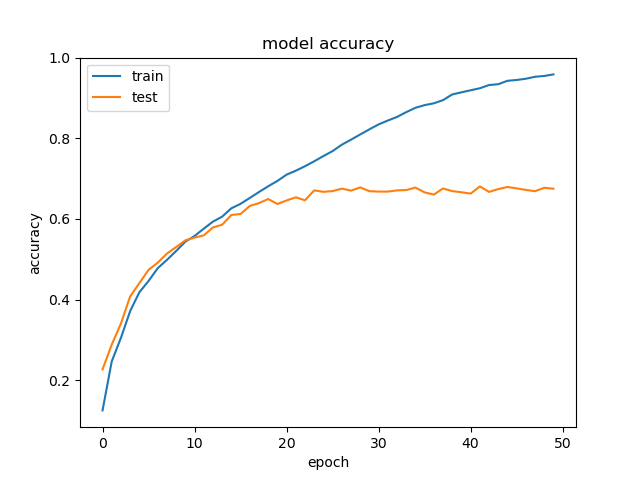
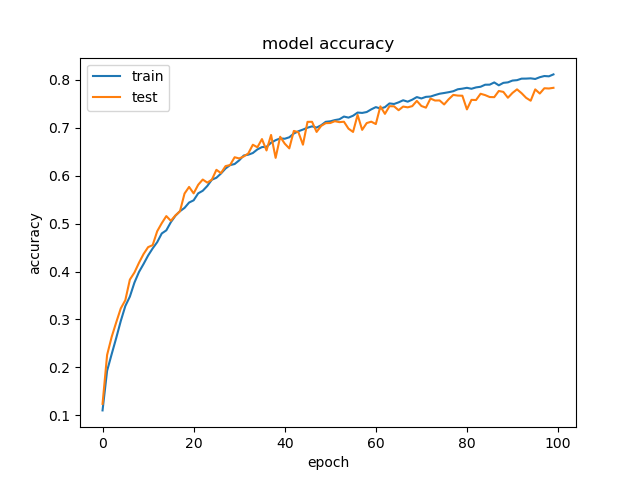
New AllConv model

diff --git a/tests/CIFAR10/tests_CIFAR10.py b/tests/CIFAR10/tests_CIFAR10.py
@@ -19,7 +19,7 @@ population_size = 200
 multiprocessing = True
 
 save_dir = os.path.join(os.path.dirname(os.getcwd()), 'saved_models')
-model_name = 'VGG16_one_pixel_cifar10_trained_model.h5'
+model_name = 'AllConv_cifar10_trained_model.h5'
 
 model = tf.keras.models.load_model(save_dir + '\\' + model_name)
 
@@ -29,46 +29,47 @@ y_test = keras.utils.to_categorical(y_test, num_classes)
 
 # get random images with true predictions, equal number per class
 # Use this block first and than copy the result into all_image_indices below, comment again before the run
-# image_indices = ImagePickerCIFAR10.get_cifar10_images(model, sample_size, num_classes)
-# print(image_indices)
-# exit()
+# otherwise each process would pick new images
+#image_indices = ImagePickerCIFAR10.get_cifar10_images(model, sample_size, num_classes)
+#print(image_indices)
+#exit()
 
-all_image_indices = np.array([6422, 6333, 6744, 2492, 3152, 38, 5627, 5465, 7338, 8926, 3046, 6323, 8970, 4265
-, 4419, 580, 7364, 3891, 3784, 2295, 5225, 6224, 3286, 4932, 5284, 389, 9691, 6415
-, 1993, 7889, 7818, 6659, 3368, 9915, 2497, 9575, 9318, 9004, 9273, 8179, 8657, 1630
-, 6563, 3113, 7488, 8697, 5495, 2602, 5040, 4015, 9063, 1060, 8083, 8703, 1613, 901
-, 2698, 1419, 4826, 1816, 5277, 5133, 6270, 4619, 829, 9343, 3186, 8890, 4226, 6661
-, 4690, 3140, 7749, 1778, 6751, 817, 1573, 5551, 4136, 5400, 5502, 809, 3121, 2866
-, 2740, 8068, 2960, 3381, 4923, 2488, 3332, 6152, 6874, 7465, 1081, 1450, 2430, 8502
-, 5996, 1093, 9494, 5970, 511, 6557, 5518, 2878, 6343, 8708, 5507, 6249, 4846, 8089
-, 1354, 5309, 9444, 4465, 5890, 2336, 9685, 8881, 4505, 314, 9698, 4007, 7997, 3599
-, 2669, 4187, 4330, 5676, 4231, 1929, 7577, 7521, 6617, 5828, 6093, 9673, 7325, 6250
-, 1452, 7322, 1205, 3357, 6762, 8738, 7653, 4087, 9523, 8634, 6824, 5566, 636, 4009
-, 8493, 3461, 2553, 9766, 9149, 9281, 8696, 4806, 9019, 2191, 288, 9841, 233, 3612
-, 9544, 7393, 4713, 9950, 7563, 3198, 9295, 9763, 2605, 9158, 6438, 7247, 1061, 2214
-, 3849, 4069, 706, 1443, 6889, 2053, 2925, 8919, 5962, 4078, 7121, 9294, 9202, 7222
-, 6586, 6329, 4382, 2625, 7798, 2809, 820, 1379, 3271, 5165, 4401, 9797, 9736, 1694
-, 3127, 8866, 9006, 7967, 4730, 1564, 884, 8510, 4025, 4770, 6548, 4070, 6167, 8082
-, 2354, 588, 1606, 2689, 7519, 4091, 5909, 5925, 2076, 4170, 7699, 9927, 8343, 5653
-, 8235, 6943, 9885, 8278, 4471, 7660, 3697, 5000, 6978, 2005, 4628, 9819, 1784, 5757
-, 6225, 5303, 3756, 4075, 2812, 7469, 7757, 9697, 7587, 6000, 7270, 3676, 5966, 53
-, 5980, 7390, 499, 6399, 934, 8791, 8247, 2043, 1851, 5744, 7151, 8740, 6526, 2051
-, 7683, 5930, 1792, 5146, 3064, 2068, 2271, 9477, 2246, 7346, 7506, 9621, 1070, 7721
-, 4567, 4318, 109, 7437, 8612, 7624, 2062, 3092, 9366, 2670, 9790, 5258, 7083, 8998
-, 2090, 475, 1331, 8683, 8898, 1920, 9598, 4783, 1110, 2272, 772, 4714, 7823, 5834
-, 6081, 6300, 2853, 9059, 7422, 9194, 736, 3244, 1524, 1410, 8111, 1659, 5015, 5336
-, 5710, 3780, 2520, 8454, 8001, 5353, 3147, 4600, 8702, 4699, 3968, 7532, 430, 5124
-, 8313, 633, 869, 3293, 6366, 6463, 2856, 1048, 3964, 3698, 7066, 6495, 2758, 5704
-, 2445, 9703, 7879, 5304, 4839, 711, 6800, 3282, 4099, 6319, 1518, 4723, 5919, 9060
-, 2094, 7326, 112, 4557, 9944, 9479, 4772, 8307, 927, 2225, 7459, 8072, 2752, 2112
-, 3456, 7954, 2938, 5972, 141, 5535, 6002, 7927, 3614, 563, 2659, 3382, 6442, 6389
-, 1688, 3048, 5354, 9664, 1106, 9938, 1345, 8473, 1857, 8021, 417, 246, 1002, 5584
-, 3108, 8053, 6413, 245, 7542, 8074, 2077, 9592, 7167, 6815, 8389, 6348, 8873, 6131
-, 343, 9345, 1169, 3927, 9237, 3356, 3515, 7296, 9142, 2212, 5633, 5491, 7794, 7027
-, 6746, 8418, 5068, 8102, 716, 9613, 9243, 5357, 113, 5813, 8848, 7829, 903, 3188
-, 1112, 3489, 8860, 5328, 3326, 1726, 1278, 4939, 6304, 2861, 6945, 1611, 661, 2173
-, 2733, 6105, 6444, 4108, 1673, 5076, 5228, 4987, 933, 5779, 5707, 3620, 2618, 5062
-, 5798, 496, 7125, 1579, 2388, 8795, 8909, 7869, 5948, 3177])
+all_image_indices = np.array([6596, 8202, 3647, 3188, 9481, 799, 3483, 4517, 2735, 7023, 561, 2809, 7850, 8921
+, 5018, 1055, 4684, 4049, 9840, 2582, 6846, 9943, 7869, 7256, 7006, 5494, 7093, 2290
+, 7273, 7187, 5980, 3945, 9118, 4026, 9682, 8231, 9514, 8171, 7954, 4999, 3253, 9314
+, 7430, 2184, 5400, 1054, 1688, 4055, 5094, 6794, 4687, 8155, 1892, 6988, 3539, 9588
+, 3441, 9025, 2604, 8585, 8892, 3668, 7404, 5458, 8206, 8902, 5635, 4147, 550, 2935
+, 2786, 9540, 4715, 7608, 1672, 78, 847, 6915, 2778, 2269, 304, 4798, 7130, 9631
+, 6620, 529, 6735, 8230, 2850, 4458, 1921, 1651, 7838, 39, 2426, 3090, 9589, 2235
+, 7968, 6890, 1752, 4862, 5397, 6221, 6780, 9980, 3829, 3189, 4422, 2928, 826, 2377
+, 6496, 6758, 896, 5073, 278, 7895, 2654, 1844, 7775, 2640, 3169, 5769, 7692, 3896
+, 3732, 410, 4928, 8758, 6560, 5207, 4065, 3674, 6288, 7330, 8705, 9136, 6205, 8465
+, 5554, 661, 4952, 4368, 6866, 8435, 4899, 3676, 500, 9285, 3830, 9196, 8910, 6404
+, 5030, 9494, 6483, 9016, 6268, 1874, 6431, 5540, 659, 3008, 3005, 9103, 4330, 6139
+, 8495, 1235, 42, 3802, 3455, 5145, 1146, 1067, 8693, 7963, 7911, 8409, 800, 3392
+, 4150, 8079, 3210, 1132, 4135, 2765, 6847, 2954, 4880, 2389, 8557, 2473, 421, 1017
+, 8339, 2901, 3058, 854, 4581, 4625, 9406, 4217, 5363, 6897, 9284, 523, 537, 3765
+, 9167, 8204, 192, 425, 377, 2348, 7394, 2297, 4051, 4395, 6421, 4640, 2830, 6175
+, 696, 7135, 3580, 5026, 6319, 8455, 6297, 402, 3730, 3182, 8551, 955, 8068, 3522
+, 4674, 5377, 8018, 8553, 4179, 7910, 3538, 1635, 3257, 1255, 6710, 216, 5868, 4221
+, 5824, 9618, 8769, 4629, 4407, 1849, 6972, 5358, 6240, 126, 4120, 1719, 8637, 413
+, 5884, 5690, 8327, 8767, 5096, 7208, 8500, 2820, 7542, 2583, 7687, 1289, 844, 813
+, 7937, 8285, 6702, 7109, 9876, 5675, 9004, 2877, 999, 2086, 1070, 9948, 6677, 7995
+, 6339, 1615, 7115, 7401, 6670, 1362, 6509, 858, 5906, 3530, 1372, 4575, 750, 4797
+, 8626, 6426, 2504, 5550, 9484, 3302, 5001, 9366, 5323, 8232, 1187, 4117, 1498, 2282
+, 2550, 1062, 8882, 6485, 9328, 2161, 9202, 6184, 4858, 4935, 3581, 8863, 1012, 3370
+, 7613, 5885, 2460, 5623, 5373, 98, 9129, 3007, 7844, 9598, 1694, 5805, 9194, 4115
+, 1260, 3160, 9000, 7964, 3109, 3797, 7188, 7529, 466, 967, 6603, 2591, 1610, 1497
+, 6721, 6767, 9358, 7431, 231, 2527, 6549, 4130, 5042, 252, 6292, 8379, 8951, 2378
+, 7965, 9543, 5447, 6183, 885, 2025, 3903, 9534, 6159, 752, 6632, 969, 7319, 1143
+, 7240, 3724, 753, 30, 5423, 1115, 2688, 5750, 1511, 7282, 7081, 4724, 6440, 6307
+, 2541, 3176, 6446, 8883, 2046, 3200, 181, 940, 6343, 67, 5827, 3235, 5850, 3930
+, 6683, 9660, 3448, 9414, 8659, 570, 480, 4068, 4869, 6593, 9985, 3194, 791, 6278
+, 8721, 3066, 6717, 6082, 9856, 7774, 608, 2976, 4845, 959, 2295, 7582, 3532, 2218
+, 7392, 4116, 1512, 8960, 2404, 837, 8556, 1310, 2153, 8441, 6074, 6738, 2173, 4223
+, 8707, 7165, 3526, 3799, 9656, 6202, 8572, 398, 742, 5852, 1274, 8800, 1266, 1993
+, 6340, 2189, 9462, 3602, 1275, 821, 8897, 873, 6675, 9093, 9191, 8219, 5785, 121
+, 2828, 2840, 8382, 5822, 5368, 2625, 3710, 5265, 4601, 8841])
 
 #function only needed for multi processing
 def f(j):
@@ -101,7 +102,7 @@ start_time = time.time()
 if multiprocessing:
     print('Using multiprocessing')
     if __name__ == '__main__':
-        with Pool(processes=4) as p:
+        with Pool(processes=50) as p:
             p.map(f, all_image_indices)
 
 else:

diff --git a/model_definitions/AllConv_cifar10.py b/model_definitions/AllConv_cifar10.py
@@ -1,6 +1,9 @@
 #parts from https://keras.io/examples/cifar10_cnn/
 
 from __future__ import print_function
+
+import time
+
 import keras
 from keras.datasets import cifar10
 from keras.preprocessing.image import ImageDataGenerator
@@ -13,8 +16,8 @@ from library import CustomStopper
 
 batch_size = 256
 num_classes = 10
-epochs = 50
-data_augmentation = False
+epochs = 100
+data_augmentation = True
 num_predictions = 20
 save_dir = os.path.join(os.path.dirname(os.getcwd()), 'tests')
 save_dir = os.path.join(save_dir, 'saved_models')
@@ -37,15 +40,15 @@ def _define_model():
                       , padding='same'
                       , input_shape=x_train.shape[1:]
                       , activation='relu'))
-    _model.add(Conv2D(96, (3, 3), activation='relu'))
-    _model.add(Conv2D(96, (3, 3), strides=(2, 2), activation='relu'))
-    _model.add(Conv2D(192, (3, 3), activation='relu'))
-    _model.add(Conv2D(192, (3, 3), activation='relu'))
+    _model.add(Conv2D(96, (3, 3), activation='relu', padding='same'))
+    _model.add(Conv2D(96, (3, 3), strides=(2, 2), activation='relu', padding='same'))
+    _model.add(Conv2D(192, (3, 3), activation='relu', padding='same'))
+    _model.add(Conv2D(192, (3, 3), activation='relu', padding='same'))
     _model.add(Dropout(0.3))
-    _model.add(Conv2D(192, (3, 3), strides=(2, 2), activation='relu'))
-    _model.add(Conv2D(192, (3, 3), strides=(2, 2), activation='relu'))
-    _model.add(Conv2D(192, (1, 1), activation='relu'))
-    _model.add(Conv2D(10, (1, 1), activation='relu'))
+    _model.add(Conv2D(192, (3, 3), strides=(2, 2), activation='relu', padding='same'))
+    _model.add(Conv2D(192, (3, 3), strides=(2, 2), activation='relu', padding='same'))
+    _model.add(Conv2D(192, (1, 1), activation='relu', padding='same'))
+    _model.add(Conv2D(10, (1, 1), activation='relu', padding='same'))
     _model.add(AveragePooling2D(6, 1, padding='same'))
     _model.add(Flatten())
     _model.add(Dense(num_classes))
@@ -71,6 +74,8 @@ x_test /= 255
 print(model.summary())
 
 #exit() # uncomment if you want to print the model summary only before the start of the training
+
+start_time = time.time()
 
 if not data_augmentation:
     print('Not using data augmentation.')
@@ -103,7 +108,7 @@ else:
         fill_mode='nearest',
         cval=0.,  # value used for fill_mode = "constant"
         horizontal_flip=True,  # randomly flip images
-        vertical_flip=False,  # randomly flip images
+        vertical_flip=True,  # randomly flip images
         # set rescaling factor (applied before any other transformation)
         rescale=None,
         # set function that will be applied on each input
@@ -118,11 +123,13 @@ else:
     datagen.fit(x_train)
 
     # Fit the model on the batches generated by datagen.flow().
-    model.fit_generator(datagen.flow(x_train, y_train,
+    history = model.fit_generator(datagen.flow(x_train, y_train,
                                      batch_size=batch_size),
                         epochs=epochs,
                         validation_data=(x_test, y_test),
                         workers=4)
+
+print(time.time()-start_time)
 
 # Save model and weights
 if not os.path.isdir(save_dir):
